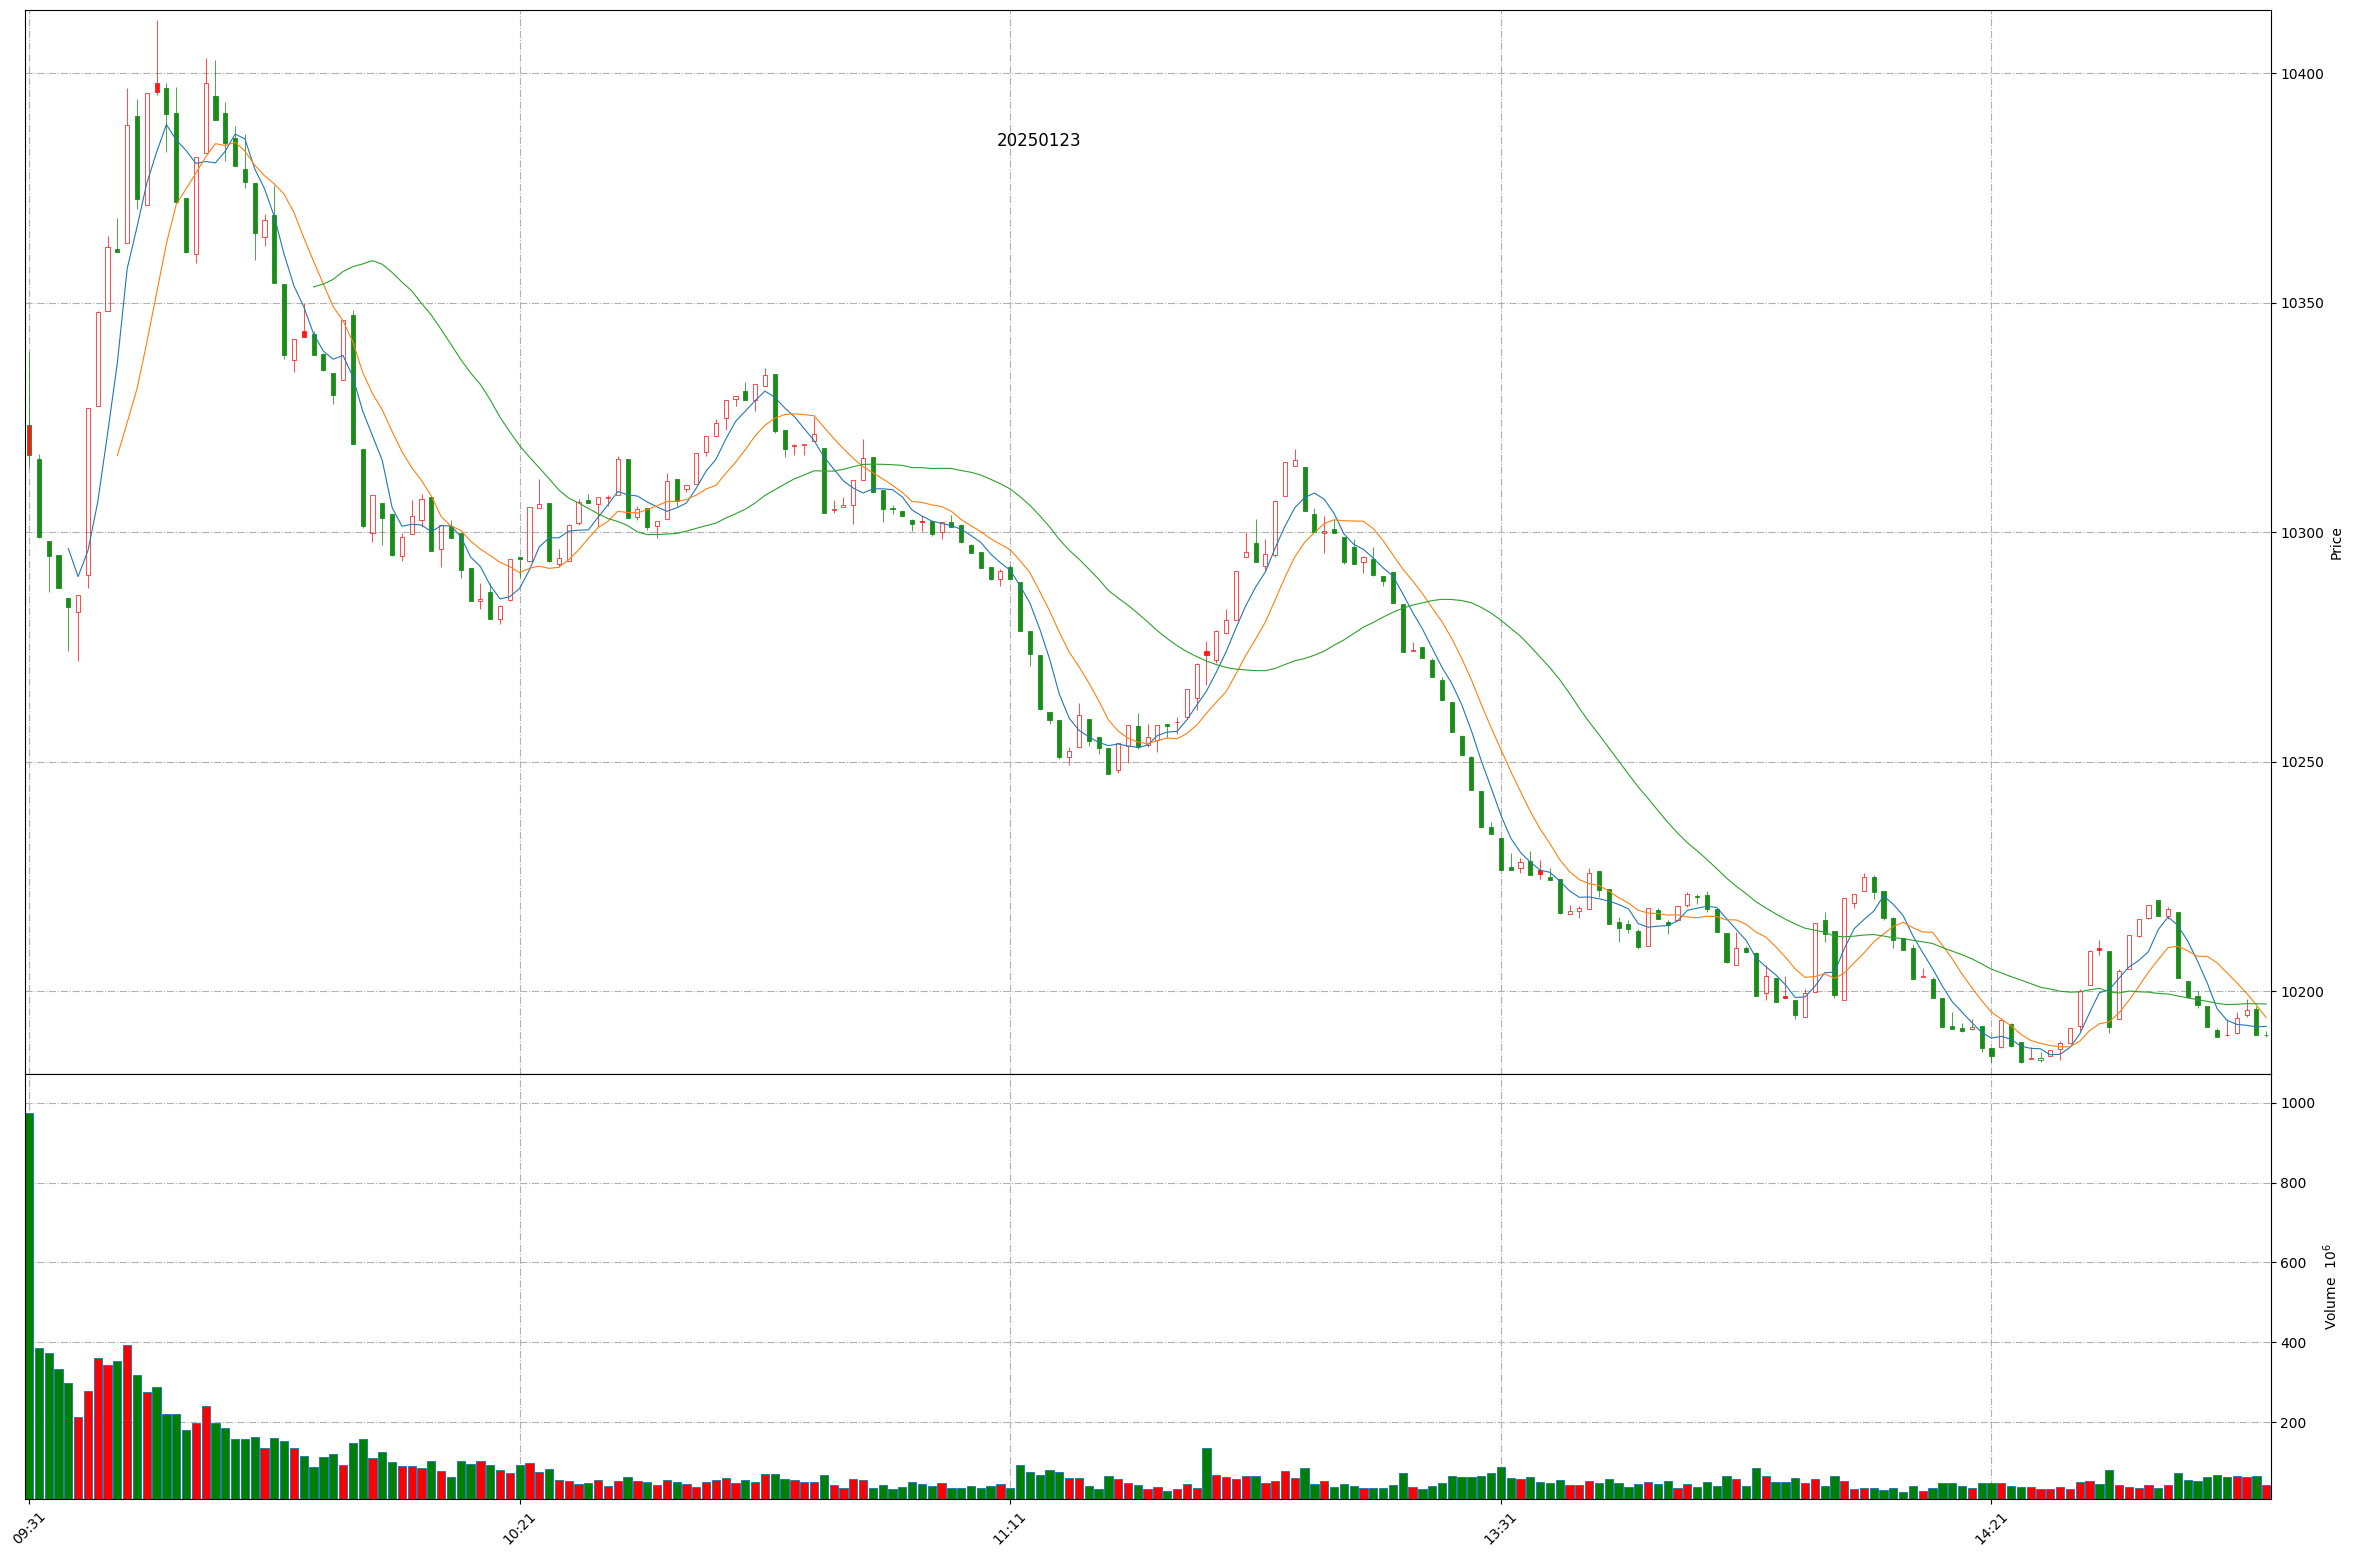
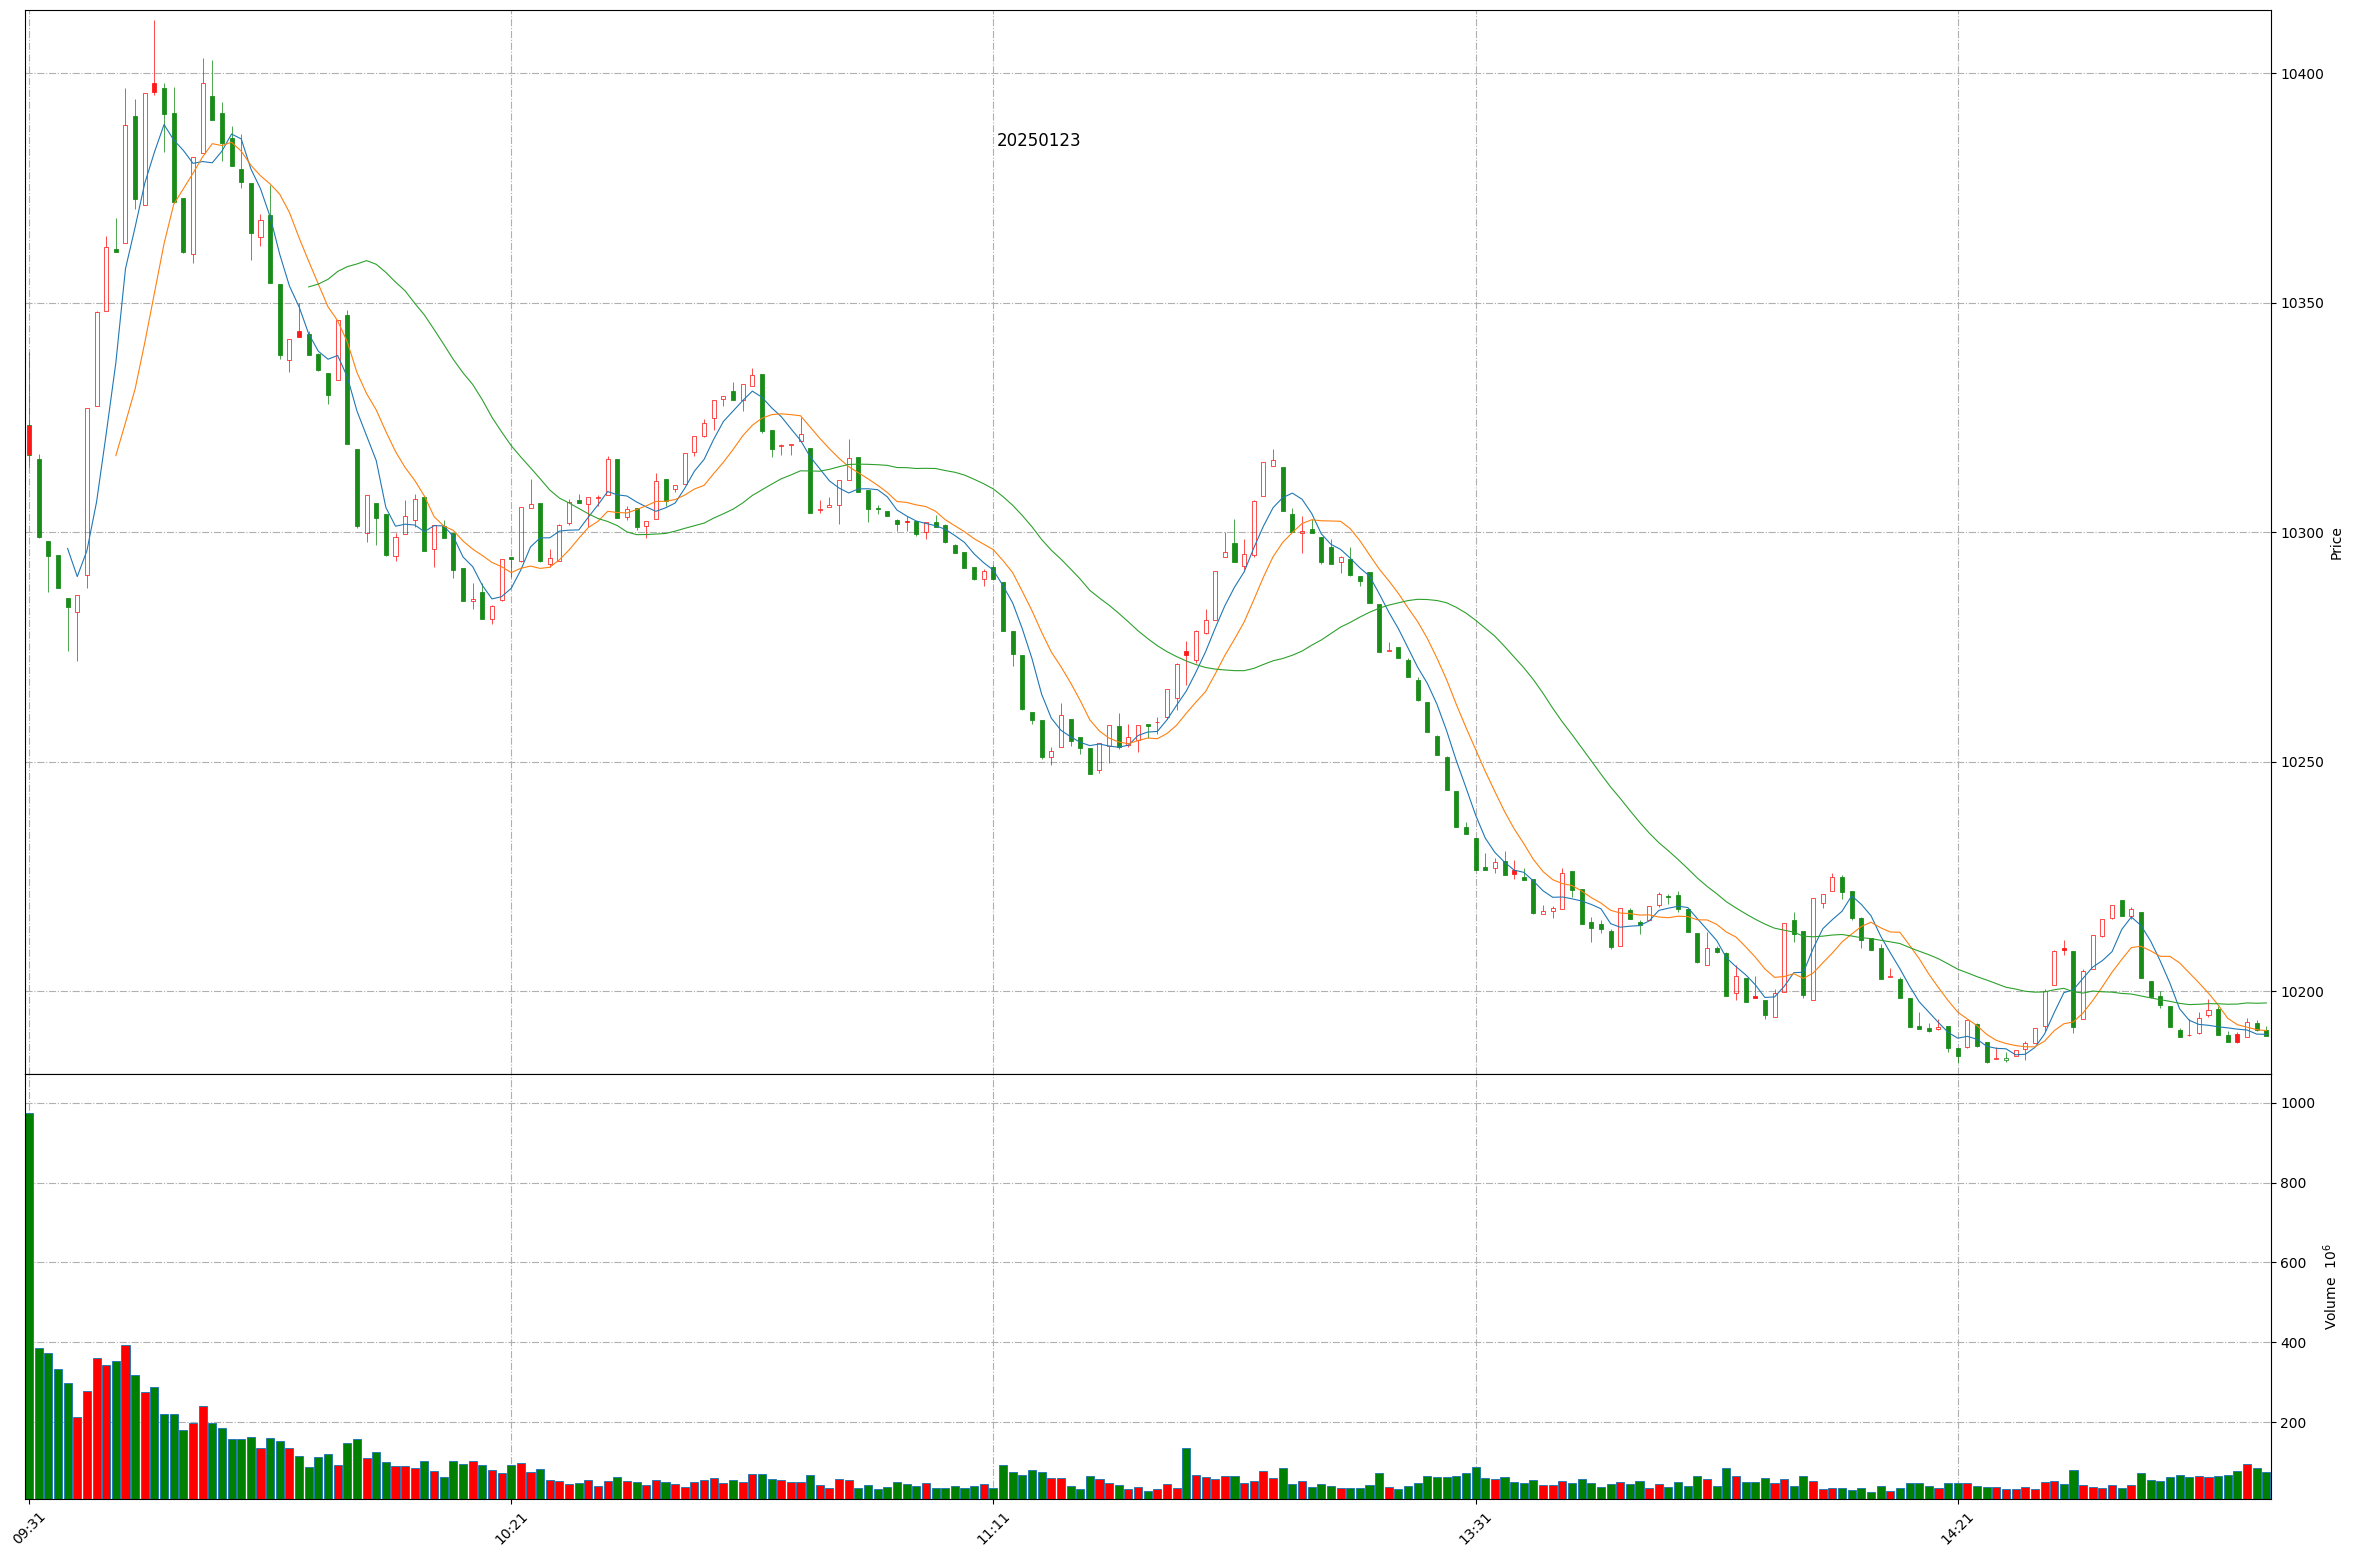
Github action update at 2025-01-23 14:52:55.

diff --git a/README.md b/README.md
@@ -1,11 +1,11 @@
 
 # Daily-A-share-market-quotes 每日 A 股指数（5min 更新）- 20250123
 
-### 上证指数 20250123 14:48
+### 上证指数 20250123 14:52
 ![](./fig/2025/1/20250123-sh000001.png)
 
-### 深证成指 20250123 14:48
+### 深证成指 20250123 14:52
 ![](./fig/2025/1/20250123-sz399001.png)
 
-### 北证50 20250123 14:48
+### 北证50 20250123 14:52
 ![](./fig/2025/1/20250123-bj899050.png)
